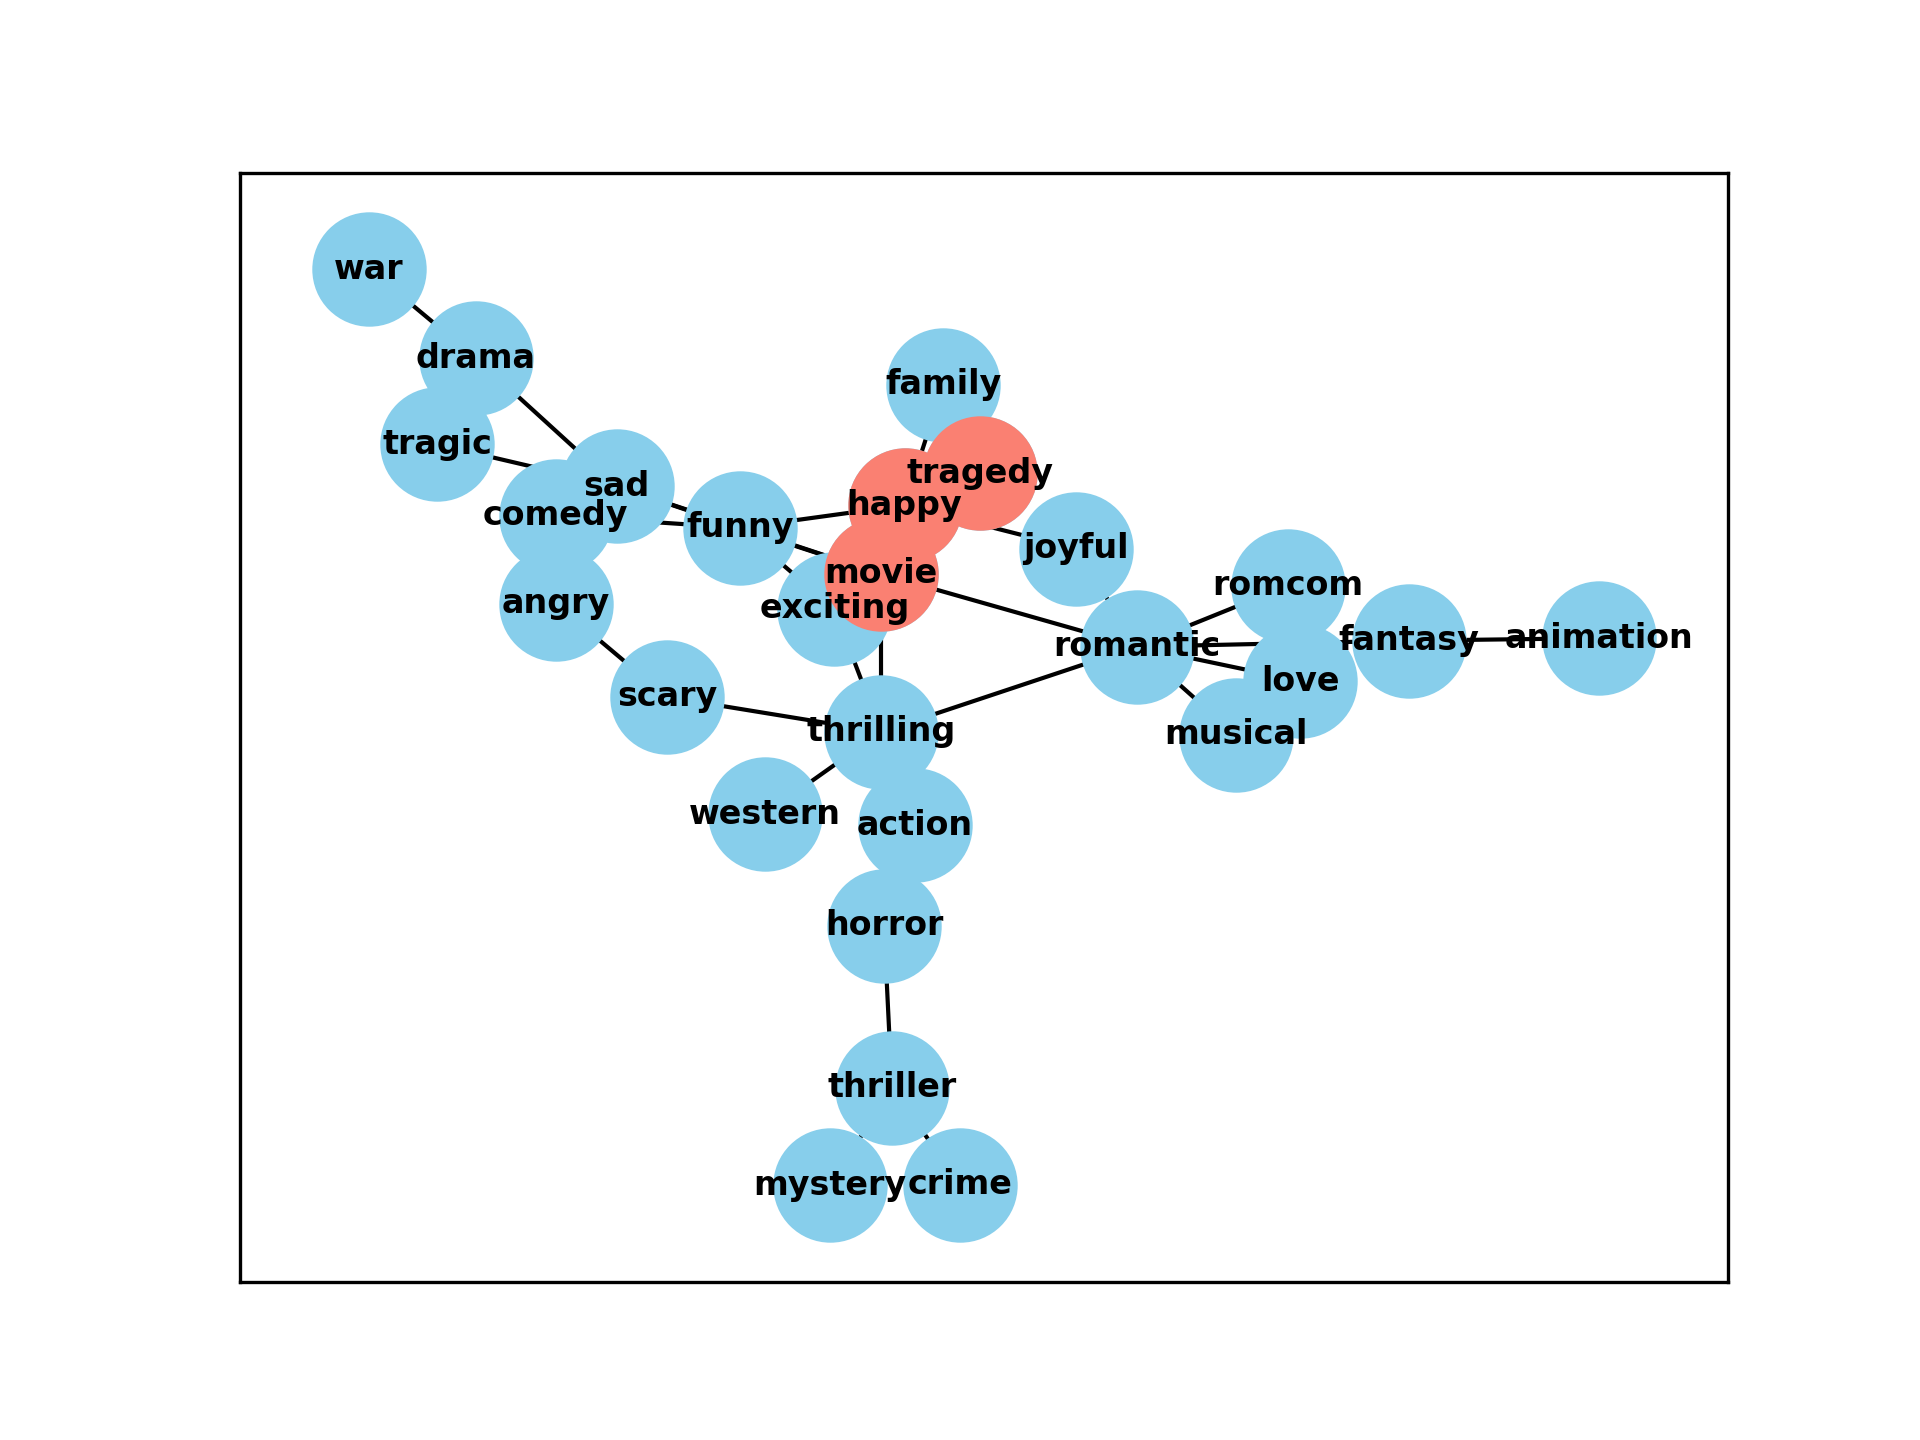
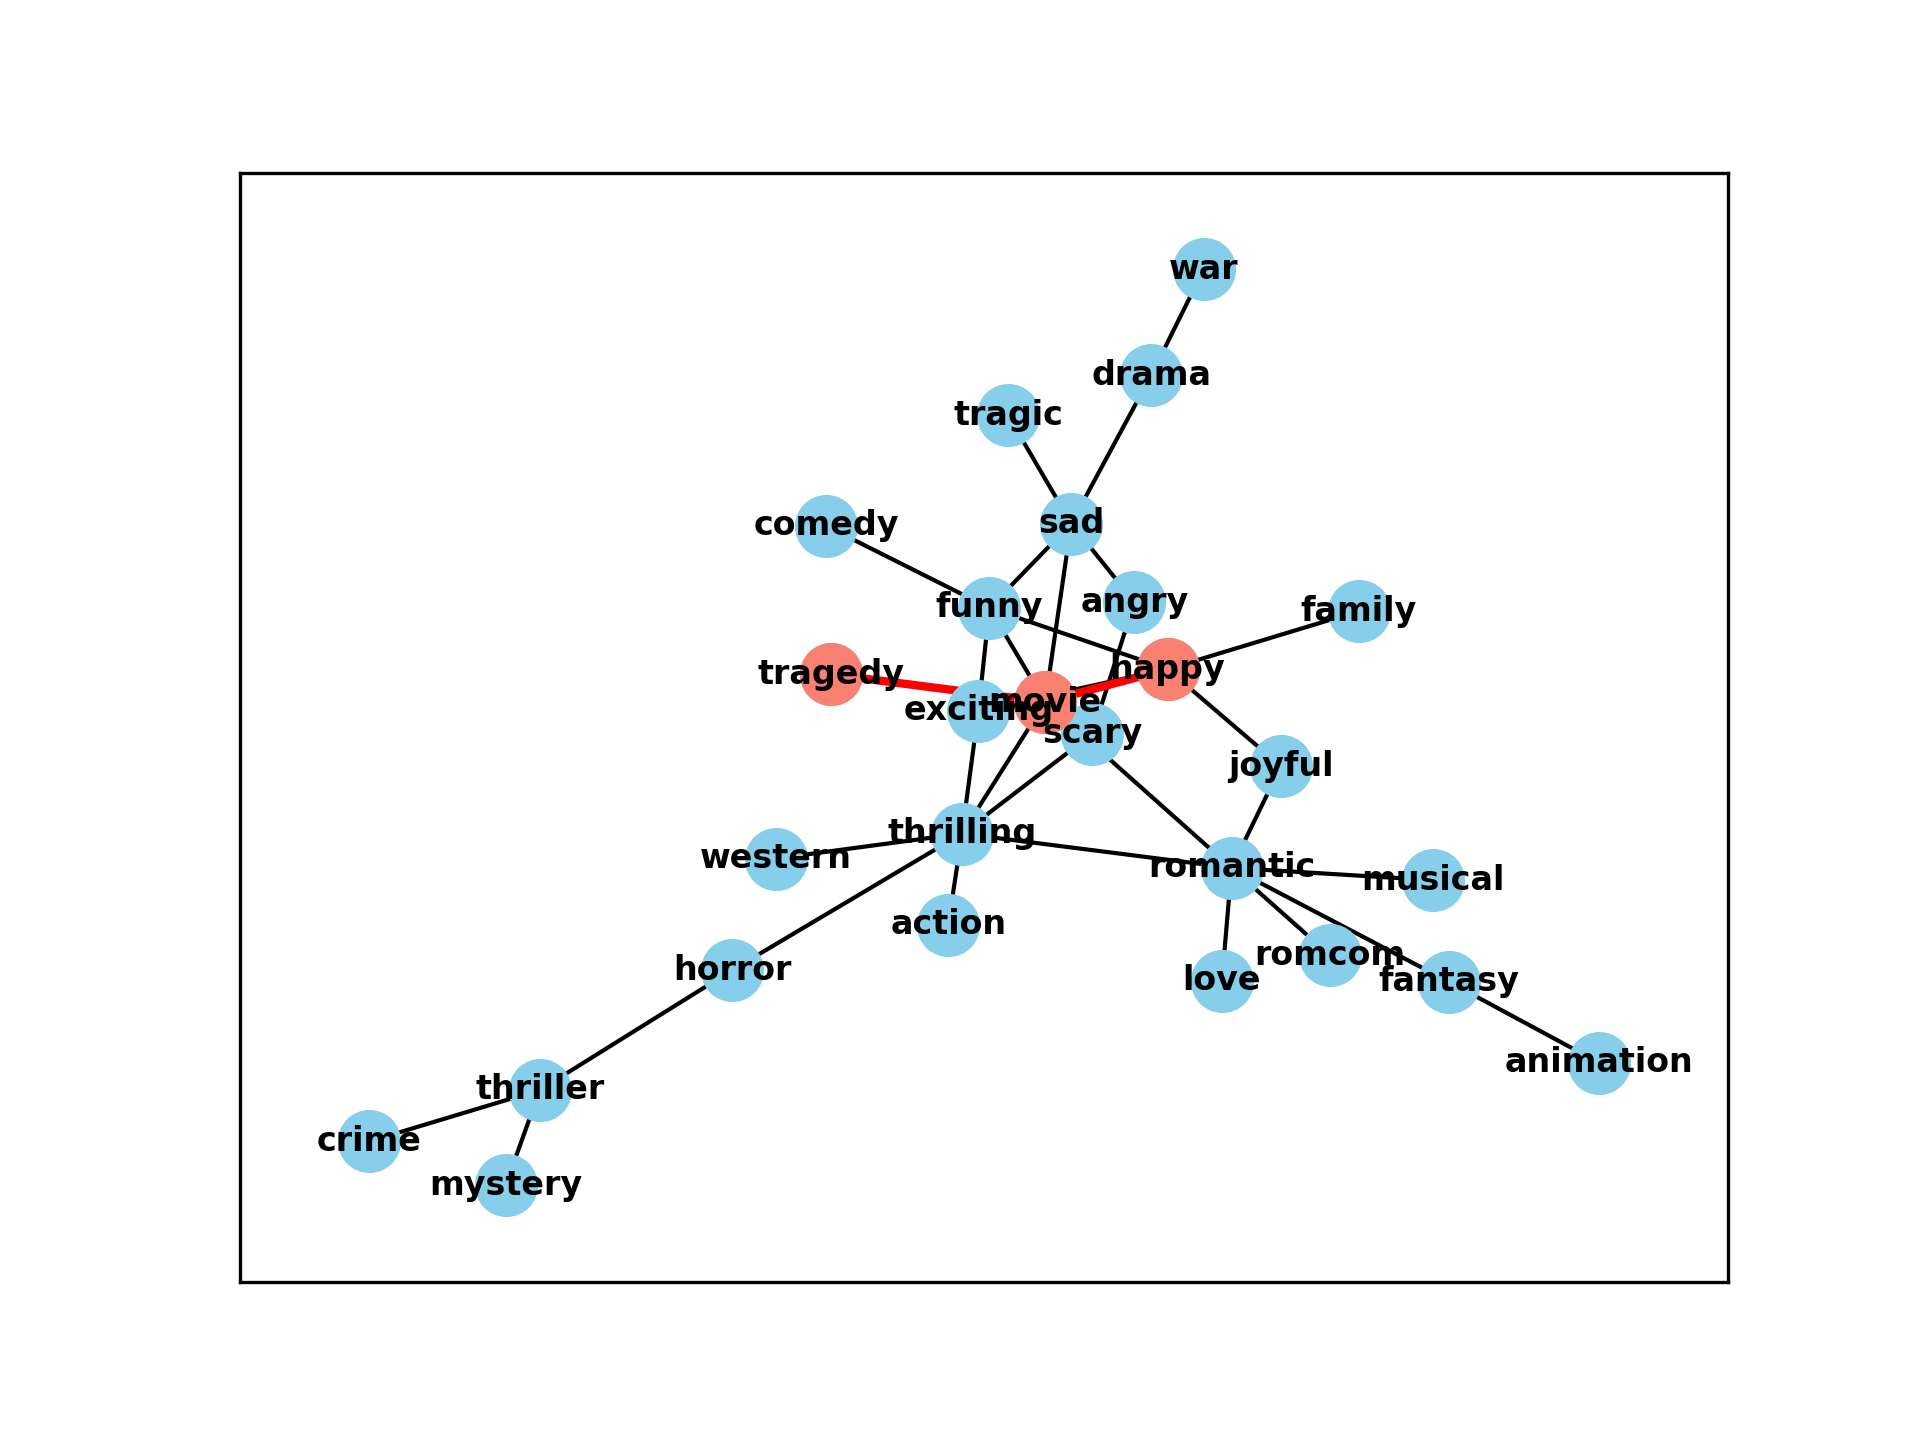
Start FInal

diff --git a/code/withModel.py b/code/withModel.py
@@ -81,7 +81,7 @@ def setColor():
 
 
 def getAttribute(G):
-    print("nodes:", G.nodes)
+    # print("nodes:", G.nodes)
     num_nodes = G.number_of_nodes()
     num_edges = G.number_of_edges()
     density = nx.density(G)
@@ -109,15 +109,15 @@ setColor()
 getAttribute(G)
 ###  plot
 pos = nx.spring_layout(G)
-
+file_path = 'neg.txt'  # Replace with your desired file path
+nx.write_adjlist(G, file_path)
 nx.draw_networkx(G, pos, node_color=node_colors,
                  with_labels=False,
-                 node_size=5,
-                 edge_color='black',
-                 alpha=0.5,
+                 node_size=50,
+                 edge_color='gray',
+                 alpha=1,
                  width=0.1)
 
-plt.figure(figsize=(20, 20), dpi=800)
-plt.savefig(save_path, bbox_inches='tight', pad_inches=0)
-
+plt.figure(figsize=(80, 80), dpi=500)
+# plt.savefig('./photo/dataSetG.png', dpi=300)
 plt.show()

diff --git a/code/main.py b/code/main.py
@@ -76,10 +76,10 @@ filtered_words_set = set(filtered_words)
 common_nodes = filtered_words_set.intersection(nodes_G)
 
 pos = nx.spring_layout(G)
-nx.draw_networkx(G, pos, with_labels=True, font_weight='bold', node_size=700, node_color='skyblue', font_size=8, arrows=False)
+nx.draw_networkx(G, pos, with_labels=True, font_weight='bold', node_size=200, node_color='skyblue', font_size=8, arrows=False)
 
 # The second graph should be drawn on the first Graph
-nx.draw_networkx_nodes(H, pos, nodelist=common_nodes, node_color='salmon', node_size=700)
+nx.draw_networkx_nodes(H, pos, nodelist=common_nodes, node_color='salmon', node_size=200)
 nx.draw_networkx_edges(H, pos, edgelist=H.edge, edge_color='red', width=2)
 
 # save
